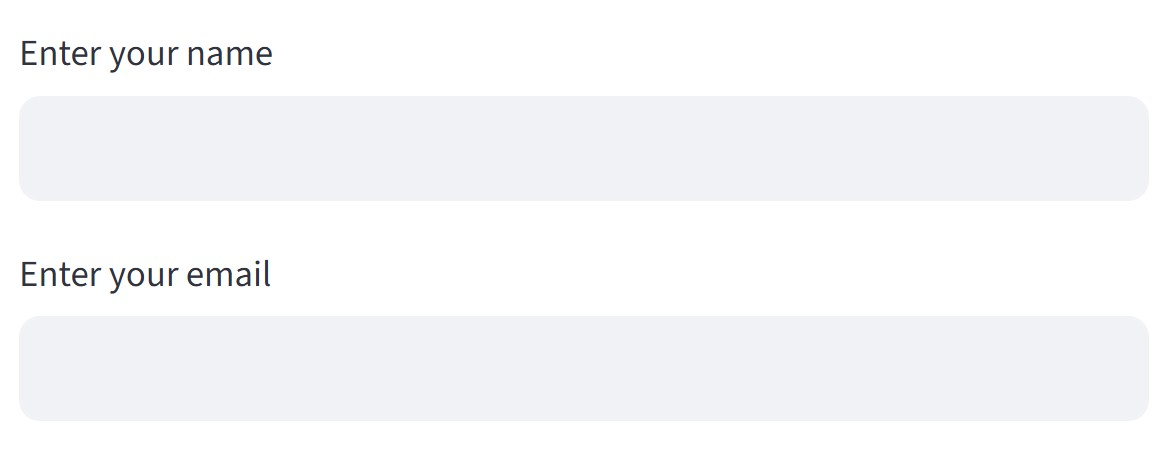
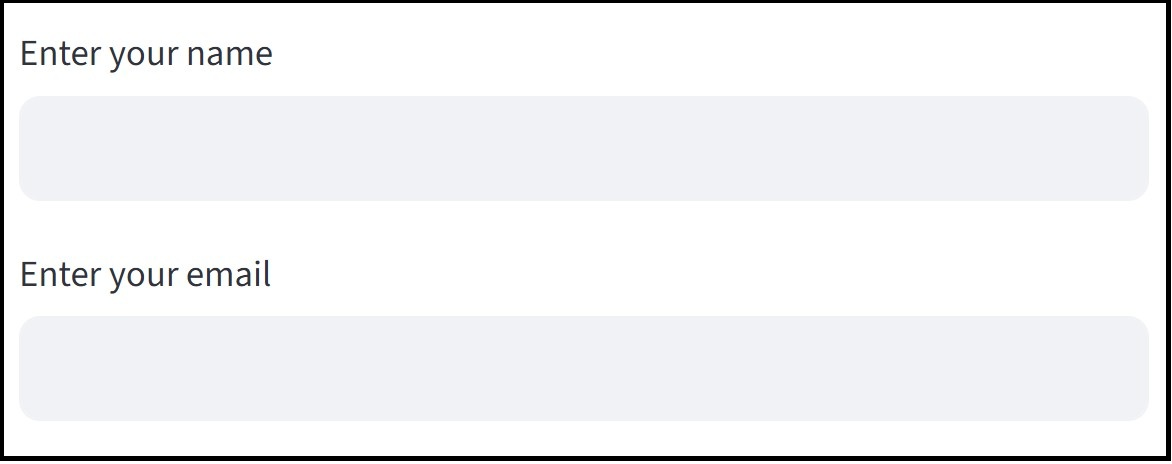
rename

Changed region(s): [[0.0, 0.0, 1.0, 0.9957]]

diff --git a/07_streamlit.md b/07_streamlit.md
@@ -33,7 +33,7 @@ st.title("Hello Streamlit")
 st.write("Welcome to your first web app!")
 ```
 
-<img src="images/streamlit1.jpg" width="50%" style="border:2px solid black;"/>
+<img src="images/streamlit1.jpg" width="50%"/>
 
 ### 4. Common Streamlit Components
 
@@ -62,7 +62,7 @@ name = st.text_input("Enter your name")
 email = st.text_input("Enter your email")
 ```
 
-<img src="images/streamlit2.jpg" width="75%" border="1"/>
+<img src="images/streamlit2.jpg" width="75%"/>
 
 #### `st.button()`
 
@@ -73,7 +73,7 @@ if st.button("Submit"):
     st.success("Submitted successfully!")
 ```
 
-<img src="images/streamlit3.jpg" width="75%" border="1"/>
+<img src="images/streamlit3.jpg" width="75%" />
 
 #### `st.selectbox()`
 
@@ -84,7 +84,7 @@ choice = st.selectbox("Choose user", ["Alice", "Bob", "Charlie"])
 st.write("You selected:", choice)
 ```
 
-<img src="images/streamlit4.jpg" width="75%" border="1"/>
+<img src="images/streamlit4.jpg" width="75%"/>
 
 #### `st.success()` and `st.error()`
 
@@ -95,7 +95,7 @@ st.success("User added successfully")
 st.error("An error occurred")
 ```
 
-<img src="images/streamlit5.jpg" width="75%" border="1"/>
+<img src="images/streamlit5.jpg" width="75%" />
 
 #### `st.info()`
 
@@ -131,7 +131,7 @@ if st.button("Save"):
         st.error("All fields required")
 ```
 
-<img src="images/streamlit6.jpg" width="75%" border="1"/>
+<img src="images/streamlit6.jpg" width="75%" />
 
 ### Summary
 
